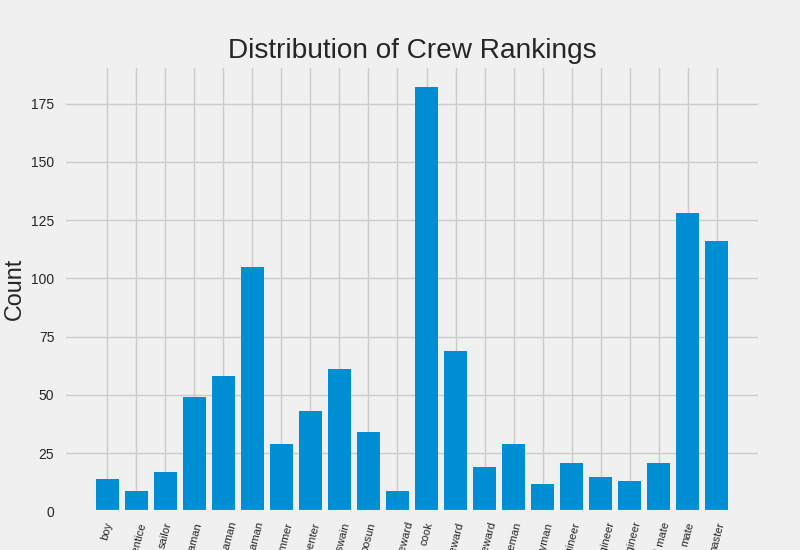
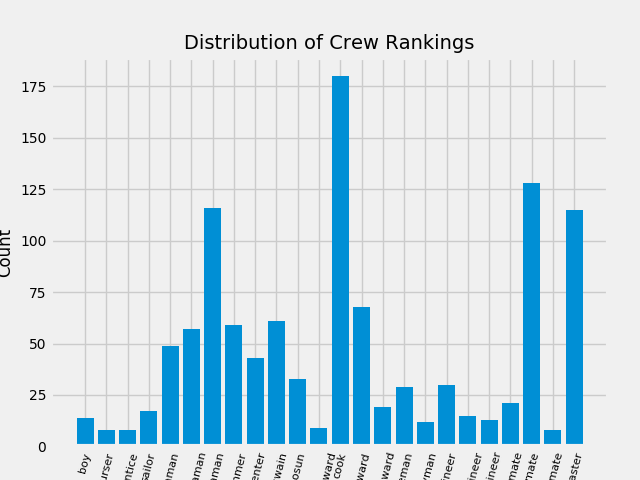
Done one, half of two, now to finish and write -up

diff --git a/csm6720/part_one_plot.py b/csm6720/part_one_plot.py
@@ -2,6 +2,8 @@
 """
 CSM6720
 @author: sap21
+
+>> Crew Ranks
 """
 
 from pymongo import MongoClient
@@ -18,16 +20,23 @@ if __name__ == "__main__":
     
     ##################################################    
     
-    deltab = "[]()1234567890,$-:"
-    #intab = ""
-    #outtab = ""
-    trantab = str.maketrans("", "", deltab)
-    
-    cursor = db.sap21.distinct("mariners.this_ship_capacity")
+    cursor = db.sap21.aggregate([
+        {"$match": {"mariners.this_ship_capacity": {"$nin": ["Blk", "blk", "blk ", "Blk "]}}},
+        {"$unwind":"$mariners"},
+        {"$group": {
+            "_id": {
+                "rank": "$mariners.this_ship_capacity"
+            },
+            "count": {"$sum": 1}
+        }}
+    ])
 
     ranks = []
+    deltab = "[]()1234567890,$-:"
+    trantab = str.maketrans("", "", deltab) 
+    
     for mariner_jobs in cursor:
-        mariner_jobs = str(mariner_jobs).lower()
+        mariner_jobs = str(mariner_jobs['_id'].get('rank', '')).lower()
         amper_jobs = mariner_jobs.split("&")
         and_jobs = mariner_jobs.split("and")    
         slash_jobs = mariner_jobs.split("/")
@@ -49,25 +58,25 @@ if __name__ == "__main__":
         ).translate(trantab).strip())
     
     counting_ranks = Counter(ranks)
-    counting_ranks.most_common()
-    #for k, v in counting_ranks.most_common(10):
-        #print ('%s: %i' % (k, v))    
-
-    plots = counting_ranks.most_common(27)
+    plots = counting_ranks.most_common(30)
     
-    del plots[8] # blank 8
-    del plots[15] # lamps 16 
-    del plots[19] # trimmer 21
-    del plots[20] # able seamen 23
-    del plots[20] # th engineer 24
-
+    del plots[8] # blank        
     final_ranks = dict(plots)  
     
-    order = ['boy','apprentice','sailor','seaman','ordinary seaman','able seaman',
+    final_ranks['lamptrimmer'] += final_ranks['lamps'] 
+    final_ranks['lamptrimmer'] += final_ranks['trimmer']
+    del final_ranks['lamps']   
+    del final_ranks['trimmer']
+    final_ranks['able seaman'] += final_ranks['able seamen']
+    del final_ranks['able seamen']  
+    final_ranks['engineer'] += final_ranks['th engineer']
+    del final_ranks['th engineer']
+    del final_ranks['lps']
+    
+    order = ['boy','purser','apprentice','sailor','seaman','ordinary seaman','able seaman',
              'lamptrimmer','carpenter','boatswain','bosun','mess room steward',
              'cook','steward','cook steward','fireman','donkeyman','engineer',
-             'second engineer','first engineer','second mate','mate','master']
-             
+             'second engineer','first engineer','second mate','mate','first mate','master']
     numbers = []
     for job in order:
         numbers.append(final_ranks[job])        
@@ -76,11 +85,11 @@ if __name__ == "__main__":
     fig = plt.figure(1)
     plt.style.use('fivethirtyeight')
     plt.bar(range(len(order)), numbers, tick_label=order)
-    plt.xlabel('Rank')  
-    plt.xticks(fontsize=8)
-    plt.xticks(rotation=75)
-    plt.ylabel('Count')
-    plt.title('Distribution of Crew Rankings')
+    plt.xlabel('Rank Title', fontsize=12)  
+    plt.xticks(rotation=75, fontsize=8)
+    plt.ylabel('Count', fontsize=12)
+    plt.yticks(fontsize=10)
+    plt.title('Distribution of Crew Rankings', fontsize=14)
     fig.savefig('ranks.png')
     plt.tight_layout()
     plt.show()  

diff --git a/csm6720/part_two_plot.py b/csm6720/part_two_plot.py
@@ -2,9 +2,10 @@
 """
 CSM6720
 @author: sap21
+
+>> Most popular location destinations/ports for vessels 
 """
 
-from pprint import pprint
 from pymongo import MongoClient
 import matplotlib.pyplot as plt
 from collections import Counter
@@ -18,43 +19,57 @@ if __name__ == "__main__":
     db = client.sap21
     
     ##################################################    
-    
-    "this_ship_joining_port"
-    "this_ship_leaving_port"    
-    "place_of_birth"    
-    "last_ship_port"
-    
-    '''   
-    #cursor = db.sap21.find({"mariners.last_ship_port": {"$all":[]}})
-    cursor = db.sap21.find({"mariners.last_ship_port": []})
-    places = []
-    for r in cursor:
-        places.append(r)
-    pprint(places)
-    '''
-    #####    
-    
-    cursor = db.sap21.distinct("mariners.last_ship_port")
-    ports = [] 
-        
-    deltab = "[]()1234567890,$-:"
-    #intab = ""
-    #outtab = ""
-    trantab = str.maketrans("", "", deltab)
-         
-    for p in cursor:
-        ports.append(str(p).lower.strip().translate(trantab))    
-   
-    print(ports)   
-    '''
-    counting_ports = Counter(ports)
-    plots = counting_ports.most_common(10)
 
-    del plots[8] # blank 8
-    del plots[15] # lamps 16 
-    del plots[19] # trimmer 21
-    del plots[20] # able seamen 23
-    del plots[20] # th engineer 24
+    ports = []
+    results = db.sap21.aggregate([
+        {"$match": {"mariners.last_ship_port": {"$nin": ["Blk", "blk", "blk ", "Blk "]}}},
+        {"$match": {"mariners.this_ship_joining_port": {"$nin": ["Blk", "blk", "blk ", "Blk "]}}},
+        {"$match": {"mariners.this_ship_leaving_port": {"$nin": ["Blk", "blk", "blk ", "Blk "]}}},
+        {"$unwind":"$mariners"},
+        {"$group": {
+            "_id": {
+                "lastport": "$mariners.last_ship_port",
+                "joiningport": "$mariners.this_ship_joining_port",
+                "leaveport": "$mariners.this_ship_leaving_port"
+            },
+            "count": {"$sum": 1}
+        }}
+    ])
     
-    final_ports = dict(plots)  
-    '''
+    deltab = "[]()1234567890,$-:"
+    trantab = str.maketrans("", "", deltab)
+    
+    for r in results:
+        ports.append(r['_id'].get('lastport'))
+        ports.append(r['_id'].get('joiningport'))
+        ports.append(r['_id'].get('leaveport'))
+        
+    for i, p in enumerate(ports):
+        try:
+            ports[i] = ports[i].translate(trantab)
+        except AttributeError:
+            continue
+    
+    counting_ports = Counter(ports)
+    port_count = counting_ports.most_common(20)
+    port_count = dict(port_count) 
+    
+    port_count['Aberystwyth'] += port_count['Aberystwith']    
+    del port_count['Aberystwith']   
+    del port_count['Continued'] 
+    port_count['Porthmadog'] += port_count['Portmadoc']
+    del port_count['Portmadoc']
+   
+    plt.figure(1)
+    fig = plt.figure(1)
+    plt.style.use('fivethirtyeight')
+    plt.bar(port_count.keys(), port_count.values())
+    plt.xlabel('Location', fontsize=12)  
+    plt.xticks(fontsize=8)
+    plt.xticks(rotation=75)
+    plt.ylabel('Count', fontsize=12)
+    plt.yticks(fontsize=10)
+    plt.title('Distribution of Location Popularity', fontsize=14)
+    fig.savefig('location.png')
+    plt.tight_layout()
+    plt.show()  

diff --git a/csm6720/misc.py b/csm6720/misc.py
@@ -27,6 +27,9 @@ def get_ship(ship_name): # function to get information on a ship
     records = db.sap21.find({"vessel name": ship_name})
     for r in records:
         print(r["vessel name"], r["official number"])                
+
+
+
                  
                  
 if __name__ == "__main__":
@@ -39,4 +42,5 @@ if __name__ == "__main__":
     
     list_ships() # does not work properly
     #get_ship("Margaret Ann")  
+    
     

diff --git a/csm6720/lecture_content.py b/csm6720/lecture_content.py
@@ -1,7 +1,6 @@
 # -*- coding: utf-8 -*-
 """
 Created on Thu Mar  1 13:17:05 2018
-
 @author: sap21
 
 >> Please note: this work isn't for my CS assignment.

diff --git a/csm6720/part_one_narrative.py b/csm6720/part_one_narrative.py
@@ -2,6 +2,8 @@
 """
 CSM6720
 @author: sap21
+
+>> Creating a Narrative
 """
 
 from pymongo import MongoClient   
